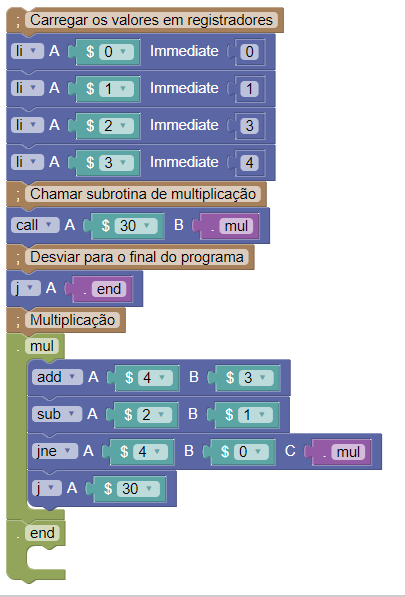
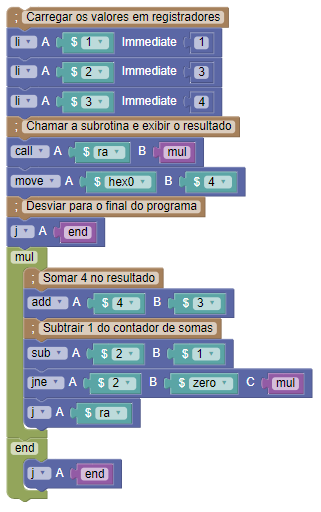
Fix wrong opcode in assembler and update manual.
Added examples for manual topics, updated images to fit new version of the assembler, fixed assembler wrong opcode and blockly move instruction alias.

diff --git a/toolkit/blockly/quanta_blocks.js b/toolkit/blockly/quanta_blocks.js
@@ -100,8 +100,8 @@ var typeRegisterJson = {
                     "$hex2"
                 ],
                 [
-                    "20",
-                    "$20"
+                    "switches",
+                    "$switches"
                 ],
                 [
                     "21",
@@ -343,8 +343,8 @@ var instructionDoubleRegisterJson = {
             "name": "INSTRUCTION",
             "options": [
                 [
-                    "mov",
-                    "MOV"
+                    "move",
+                    "MOVE"
                 ],
                 [
                     "load",

diff --git a/toolkit/blockly/generator/quanta/instruction.js b/toolkit/blockly/generator/quanta/instruction.js
@@ -17,7 +17,7 @@ Blockly.quanta['instruction_aliases'] = {
   "RR": 'rr',
   "JUMP": 'j',
 
-  "MOV": 'mov',
+  "MOVE": 'move',
   "LOAD": 'load',
   "STORE": 'store',
   "ADD": 'add',

diff --git a/toolkit/assembler/Assembler.py b/toolkit/assembler/Assembler.py
@@ -44,7 +44,7 @@ instructions = [
     Instruction('XOR', 'DOUBLE_REG', 0x09, 'xor', ''),
     Instruction('XNOR', 'DOUBLE_REG', 0x0a, 'xnor', ''),
 
-    Instruction('Jump', 'JUMP', 0x0a, 'j', ''),
+    Instruction('Jump', 'JUMP', 0x12, 'j', ''),
 
     Instruction('Jump Equals', 'BRANCH', 0x13, 'je', ''),
     Instruction('Jump Not Equals', 'BRANCH', 0x14, 'jne', ''),
@@ -68,6 +68,7 @@ register_aliases = {
     'hex0': 17,
     'hex1': 18,
     'hex2': 19,
+    'switches': 20,
     'ra': 30,
     'a': 31
 }
@@ -139,7 +140,8 @@ def assemble(data):
                     print(format_error(title, description))
                     exit(-1)
                 translated_regs.append(register_aliases[reg[0]])
-            translated_regs.append(reg)
+            else:
+                translated_regs.append(reg)
         return tuple(translated_regs)
 
     # Utility for loading an address to the reserved register.

diff --git a/doc/manual_PT-BR.md b/doc/manual_PT-BR.md
@@ -115,7 +115,9 @@
 
 	Cada instrução binária suportada pelo processador é escrita na forma de uma palavra binária de 32 bits, sendo os 8 primeiros reservados para o identificador da operação. As instruções operam em registradores de 32 bits, realizando testes ou modificações e salvando ou não o resultado.
 
-#### Immediates
+	A pasta `/doc/examples/` contêm os arquivos referentes a cada teste. O nome do arquivo é indicado entre parênteses após cada título.
+
+#### Immediates (LI)
 
 	Todos os registradores são inicializados com o valor 0, e não podem ser manipulados diretamente. Instruções do tipo immediate são instruções que carregam na palavra de instrução um valor relevante. A inicialização dos registradores é feita por meio de instruções **load immediate** (`li`).
 
@@ -133,16 +135,46 @@
 
 	A sintaxe das instruções do tipo immediate em assembly é dada por `INSTRUÇÃO $destino, immediate`. O código da instrução é especificado por meio da palavra `li`, o endereço do registrador de destino é dado por um número logo após o `$`, e o valor a ser carregado é simplesmente um valor numérico inteiro.
 
-`; Constante 0`  
-`li $0, 0`  
-`; Constante 1`  
-`li $1, 1`  
-`; Ponteiro da stack`  
-`li $29, 512`  
-`; Registrador de retorno`  
-`li $30, 0`
+`; Carrega valores em registradores`
+`li $1, 1`
+`li $2, 3`
+`li $3, 14`
 
-#### Operações simples
+#### Entrada e Saída (IO)
+
+	O sistema de entrada e saída funciona como um recurso de debug, conectando registradores do processador aos leds, displays e switches da placa de desenvolvimento. Tais conexões permitem que alguns registradores específicos sejam tratados como registradores de entrada ou saída.
+
+	Registradores de entrada ou saída possuem alises específicos, detalhados a seguir:
+
+![IO assignments.](C:\Projects\quanta\doc\res\IO.PNG)
+
+|      | Alias       | Registrador | Função                                                       |
+| ---- | ----------- | ----------- | ------------------------------------------------------------ |
+| 1    | `$switches` | `$20`       | Bits menos significativos conectados aos switches (`sw0-sw17`). |
+| 2    | `$leds`     | `$16`       | Bits menos significativos conectados aos leds vermelhos (`ldr0-ldr17`). |
+| 3    | `$hex0`     | `$17`       | Bits menos significativos conectados aos 4 displays de 7 segmentos (`hex0-hex3`) por meio de um decodificador hexadecimal. |
+| 4    | `$hex1`     | `$18`       | Bits menos significativos conectados aos 2 displays de 7 segmentos (`hex4-hex5`) por meio de um decodificador hexadecimal. |
+| 5    | `$hex2`     | `$19`       | Bits menos significativos conectados aos 4 displays de 7 segmentos (`hex6-hex7`) por meio de um decodificador hexadecimal. |
+
+
+
+##### Blockly
+
+	Instruções do tipo **load immediate** (`li`) podem ser usadas para exibir valores quando o registrador apropriado é selecionado. Os valores de entrada dos switches são conectados diretamente ao banco de registradores e seu valor pode ser lido com uma instrução **move** (`move`), copiando o valor atual para um outro registrador de uso geral.
+
+![Definição de registradores comumente usados](C:\Projects\quanta\doc\res\IOProgram.PNG)
+
+##### Assembly
+
+`; Exibe um valor nos displays 4-5`  
+`li $hex1, 42`  
+`; Exibe um valor nos leds`  
+`li $leds, 512 `   
+`; Exibe o valor dos switches nos displays 0-3`  
+`move $1, $switches `  
+`move $hex0, $1`  
+
+#### Operações simples (OP)
 
 	Os tipos mais intuitivos de operações assembly são operações matemáticas ou lógicas envolvendo dois registradores. Um dos registradores funciona como destino e origem de dados, enquanto o outro funciona como apenas origem. 
 
@@ -170,25 +202,23 @@
 	A sintaxe das instruções de operação em registradores em assembly é dada por `INSTRUÇÃO $destino/origem, $origem`. O código da instrução é especificado por meio da palavra correspondente (`add` ou `sub` nesse exemplo), o endereço do registrador de destino/origem é dado por um número logo após o `$`, assim como o endereço do registrador de origem.
 
 `; Calcular 42 + 3 - (14 - 15)`  
-`; Carregar os valores em registradores`  
-`li $0, 42`  
-`li $1, 3`  
-`li $2, 14`  
-`li $3, 15`  
+`li $1, 42 `  
+`li $2, 3`  
+`li $3, 14`  
+`li $4, 15`  
 `; Calcular (14 - 15)`  
-`; Subtrai os registradores 2 e 3`  
-`; (e salva o resultado no registrador 2)`  
-`sub $2, $3`  
+`; Subtrai $3 e $4 e salva em $3`  
+`sub $3, $4`  
 `; Calcular 42 + 3`  
-`; Soma os registradores 0 e 1`  
-`; (e salva o resultado no registrador 0)`  
-`add $0, $1`  
+`; Soma $1 e $2 e salva em $1`  
+`add $1, $2`  
 `; Calcular o valor final`  
-`; Subtrai os registradores 0 e 2`  
-`; (e salva o resultado no registrador 0)`  
-`sub $0, $2`
+`; Subtrai $1 e $3 e salva em $1`  
+`sub $1, $3 `  
+`; Exibe o resultado `  
+`move $hex0, $1 `  
 
-#### Copiando valores
+#### Copiando valores (MV)
 
 	As operações entre registradores sobrescrevem o valor do registrador de destino, mas muitas vezes o valor de um registrador precisa ser usado em mais de uma operação, e não pode ser perdido. Como não é possível realizar uma operação sem sobrescrever o registrador de destino, em certas circunstâncias é necessário fazer cópias dos valores de um registrador.
 
@@ -214,18 +244,22 @@
 
 	A sintaxe da instrução de cópia de registradores em assembly é dada por `INSTRUÇÃO $destino, $origem`. O código da instrução é especificado por meio da palavra `mov`, o endereço do registrador de destino é dado por um número logo após o `$`, assim como o endereço do registrador de origem (a ordem é importante).
 
-`; Carregar os valores em registradores`  
-`li $0, 2`  
-`li $1, 5`  
-`li $2, 4`  
-`; Copiar o registrador 0 para o registrador 3`  
-`mov $3, $0`  
+`; Carregar os valores em registradores `  
+`li $1, 2`  
+`li $2, 5`  
+`li $3, 4 ` 
+`; Copiar $1 para $4`  
+`move $4, $1`  
 `; Calcular 2 + 5`  
-`add $0, $1`  
+`add $1, $2`  
 `; Calcular 2 + 4`  
-`sub $3, $2`
+`move $4, $3`  
 
-#### Operações condicionais
+`; Exibe o resultado`  
+
+`move $hex0, $4`   
+
+#### Operações condicionais (MUL)
 
 	Programas definidos por uma lista de valores e manipulações são limitados e capazes de executar apens da forma exata como foram escritos. Qualquer programa que espere resolver problemas mais complexos requer a capacidade de tomar decisões durante a execução do código, por exemplo reagir aos dados fornecidos por um usuário, ou aos próprios resultados obtidos durante sua execução.
 
@@ -253,6 +287,8 @@
 
 	Os blocos referentes a labels podem ser encontrados no meu de labels. Ao grupo de labels podem ser conectadas várias instruções que serão agrupadas e ao identificador de labels pode ser dado um nome (nesse caso igual ao do grupo) para uso como destino de desvio.
 
+	Note o uso de um loop infinito no final da execução. Como o programa executa sem um sistema operacional, o processador continua executando infinitamente, eventualmente contando até o último endereço de memória e executando todas as instruções novamente. Para impedir que valores sejam sobrescritos (o que faria com que o resultado fosse exibido incorretamente), é importante "interromper" a execução utilizando um loop infinito.
+
 ![Exemplo de multiplicação por somas consecutivas.](C:\Projects\quanta\doc\res\ExemploMul.PNG)
 
 #####Assembly
@@ -262,7 +298,6 @@
 	As labels que definem pontos específicos no código são compostas por um identificador seguido de `:`. Uma convenção útil (mas não obrigatória) é indentar todas as linhas abaixo de uma label com quatro espaços.
 
 `; Carregar os valores em registradores`  
-`li $0, 0`  
 `li $1, 1`  
 `li $2, 3`  
 `li $3, 4`  
@@ -271,10 +306,16 @@
       `; Somar 4 no resultado`  
       `add $4, $3`  
       `; Subtrair 1 do contador de somas`  
-      `sub $1, $2`  
-      `jne $2, $0, soma`
+      `sub $2, $1`  
+      `jne $2, $zero, soma`  
 
-#### Subrotinas
+`; Exibe o resultado`  
+`move $hex0, $4`  
+`; Loop que interrope a execução`  
+`end:`  
+      `j end `   
+
+#### Subrotinas (CALL)
 
 	Exemplos como o anterior mostram que partes de um programa podem ser reaproveitadas, simplificando a escrita de código. Por exemplo, o trecho responsável por multiplicar os registradores `$2` e `$3` e armazenar o resultado no registrador `$4` pode ser utilizado para qualquer multiplicação, desde que os valores sejam colocados nos registradores `$2`e `$3`.
 
@@ -295,20 +336,22 @@
 	A sintaxe da instrução de chamada de subrotina em assembly é dada por `INSTRUÇÃO $destino, label`. O código da instrução é especificado por meio da palavra `call`, o registrador destino do endereço de retorno é dado pelo número logo após o `$` e o nome da subrotina é dado por um identificador com o mesmo nome da label correspondente.
 
 `; Carregar os valores em registradores`  
-`li $0, 0`  
 `li $1, 1`  
 `li $2, 3`  
 `li $3, 4`  
-`; Chamar subrotina de multiplicação`  
-`call $30, .mul`  
+`; Chamar a subrotina e exibir o resultado`  
+`call $ra, mul`  
+`move $hex0, $4`  
 `; Desviar para o final do programa`  
 `j end`  
-`; Multiplicação`  
 `mul:`  
+      `; Somar 4 no resultado`  
       `add $4, $3`  
+      `; Subtrair 1 do contador de somas`  
       `sub $2, $1`  
-      `jne $4, $0, .mul`  
-      `j $30`  
+      `jne $2, $zero, mul`  
+      `j $ra`  
 
-`end:`
+`end:`  
+      `j end`  
 
